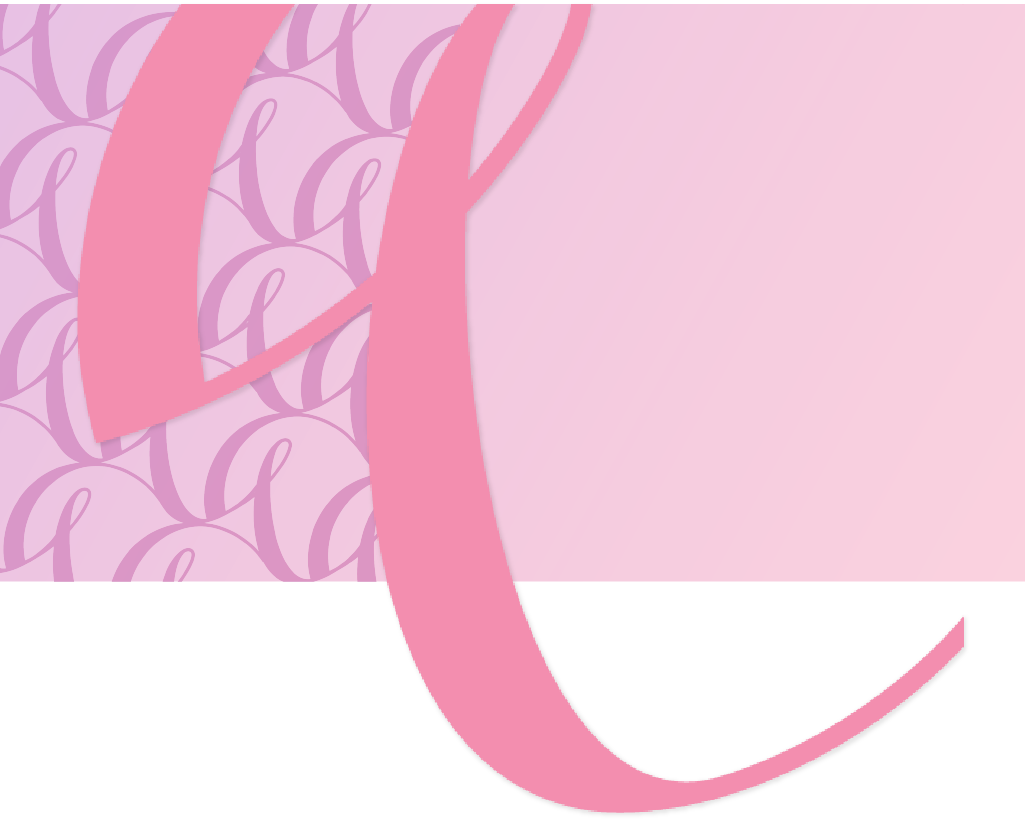
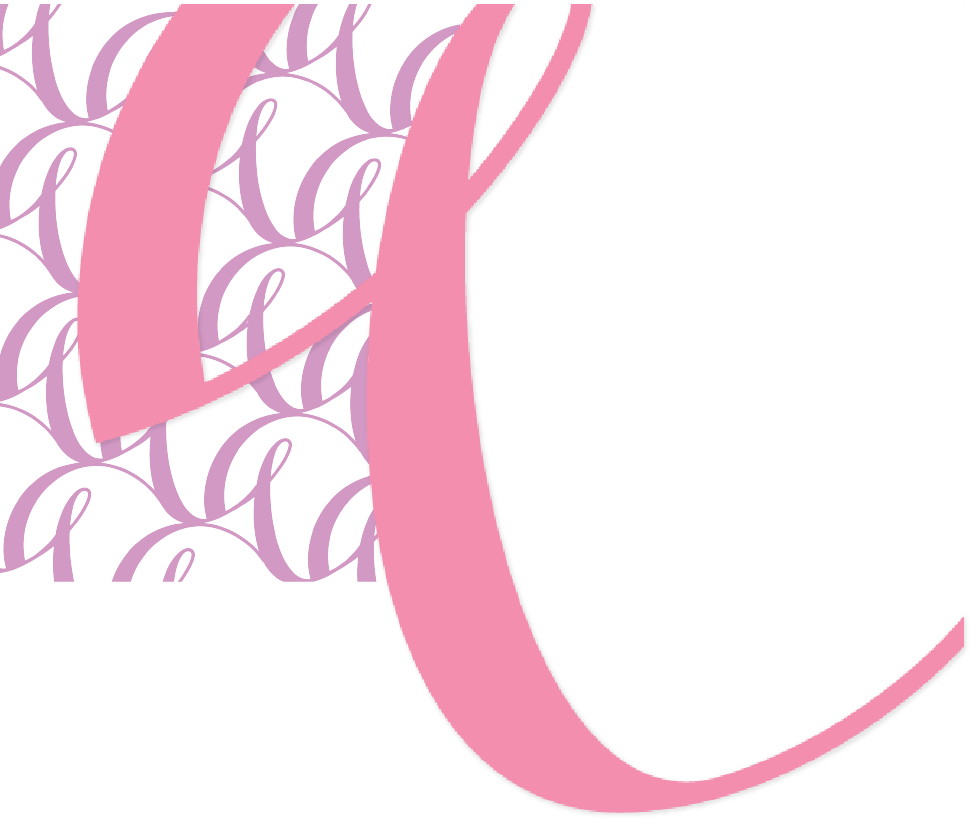
background header

diff --git a/style.css b/style.css
@@ -3,38 +3,31 @@
 * {
     padding: 0;
     margin: 0;
-    font-size; 10%;
+    font-size; 100%;
     line-height: 1em;
 }
-
-header {
-    margin: 2em 0} /*--- page margin, works clockwise ---*/
 
 body {
     width: 100%;
     font-family: 'acumin-pro-condensed', sans-serif;
-    font-style: normal;
-    font-weight: 400;
-    margin: auto;
     background-color: #FDECF3;
-    color: #333;
+    color: #000;
     line-height: 1.8em;
 }
 
 /*------------------ HEADER ------------------------*/
 
 .header{
-    background-image: url(icons/headerimg.png);
+    height: 100vh;
+    background: linear-gradient(to bottom right, rgba(216,152,210,0.8), rgba(243,142,175,0.6));
 }
 
 /*------------------ TYPOGRAPHY ------------------------*/
 
 h1 {
     font-family: 'rift-soft', sans-serif;
-    font-weight: normal; /*--- rather than bold font ---*/
-    color: #000;
     text-align: right;
-    font-size: 500%;
+    font-size: 100px;
 }
 
 h2 {

diff --git a/portfolio.html b/portfolio.html
@@ -11,9 +11,9 @@
 
     <body>
         <header class="header">
-        <h3>Hi! I'm</h3>
-        <h1>LUCY COOK</h1>
-        <h5>Welcome to my space for<br>designing and creating.</h5>
+                <h3>Hi! I'm</h3>
+                <h1>LUCY COOK</h1>
+                <h5>Welcome to my space for<br>designing and creating.</h5>
         </header>
         
 
